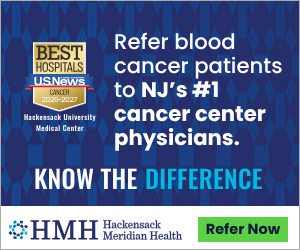
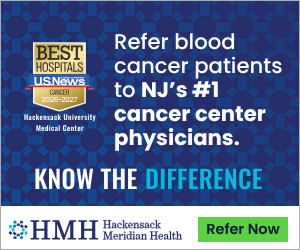
HMH review: 300x250 RTB1-3 background no longer stretched (250 px tall), thumbnails refreshed
Claude-Session: https://claude.ai/code/session_01Jh7BG3ijCvCyzYafw8rB1H

diff --git a/client/HMH/Blood_Cancer_Cellular_Therapy/300x250/index.html b/client/HMH/Blood_Cancer_Cellular_Therapy/300x250/index.html
@@ -87,7 +87,7 @@
             <p class="copy">Refer blood cancer patients to NJ’s #1 cancer center physicians.</p>
             <div class="frameWrap"><iframe src="rtb2/index.html" width="300" height="250" scrolling="no" title="300x250 banner RTB2"></iframe></div>
             <div class="controls"><button class="playpause" type="button" disabled>&#10074;&#10074; Pause</button><button class="replay" type="button">&#8635; Replay</button></div>
-            <p class="kb">66 KB</p>
+            <p class="kb">65 KB</p>
         </div>
         <div class="item">
             <h2>RTB3</h2>

diff --git a/client/HMH/Blood_Cancer_Cellular_Therapy/300x250/rtb1/initial.css b/client/HMH/Blood_Cancer_Cellular_Therapy/300x250/rtb1/initial.css
@@ -68,10 +68,7 @@ div,img,svg{
 #bg_light, #bg_blue {
     top: 0px;
     width: 300px;
-    height: 600px;
-}
-#bg_light {
-    top: -48px;          /* pattern offset per the 300x250 guides */
+    height: 250px;
 }
 #bg_blue {
     opacity: 0;

diff --git a/client/HMH/Blood_Cancer_Cellular_Therapy/300x250/rtb2/initial.css b/client/HMH/Blood_Cancer_Cellular_Therapy/300x250/rtb2/initial.css
@@ -68,10 +68,7 @@ div,img,svg{
 #bg_light, #bg_blue {
     top: 0px;
     width: 300px;
-    height: 600px;
-}
-#bg_light {
-    top: -48px;          /* pattern offset per the 300x250 guides */
+    height: 250px;
 }
 #bg_blue {
     opacity: 0;

diff --git a/client/HMH/Blood_Cancer_Cellular_Therapy/300x250/rtb3/initial.css b/client/HMH/Blood_Cancer_Cellular_Therapy/300x250/rtb3/initial.css
@@ -68,10 +68,7 @@ div,img,svg{
 #bg_light, #bg_blue {
     top: 0px;
     width: 300px;
-    height: 600px;
-}
-#bg_light {
-    top: -48px;          /* pattern offset per the 300x250 guides */
+    height: 250px;
 }
 #bg_blue {
     opacity: 0;
